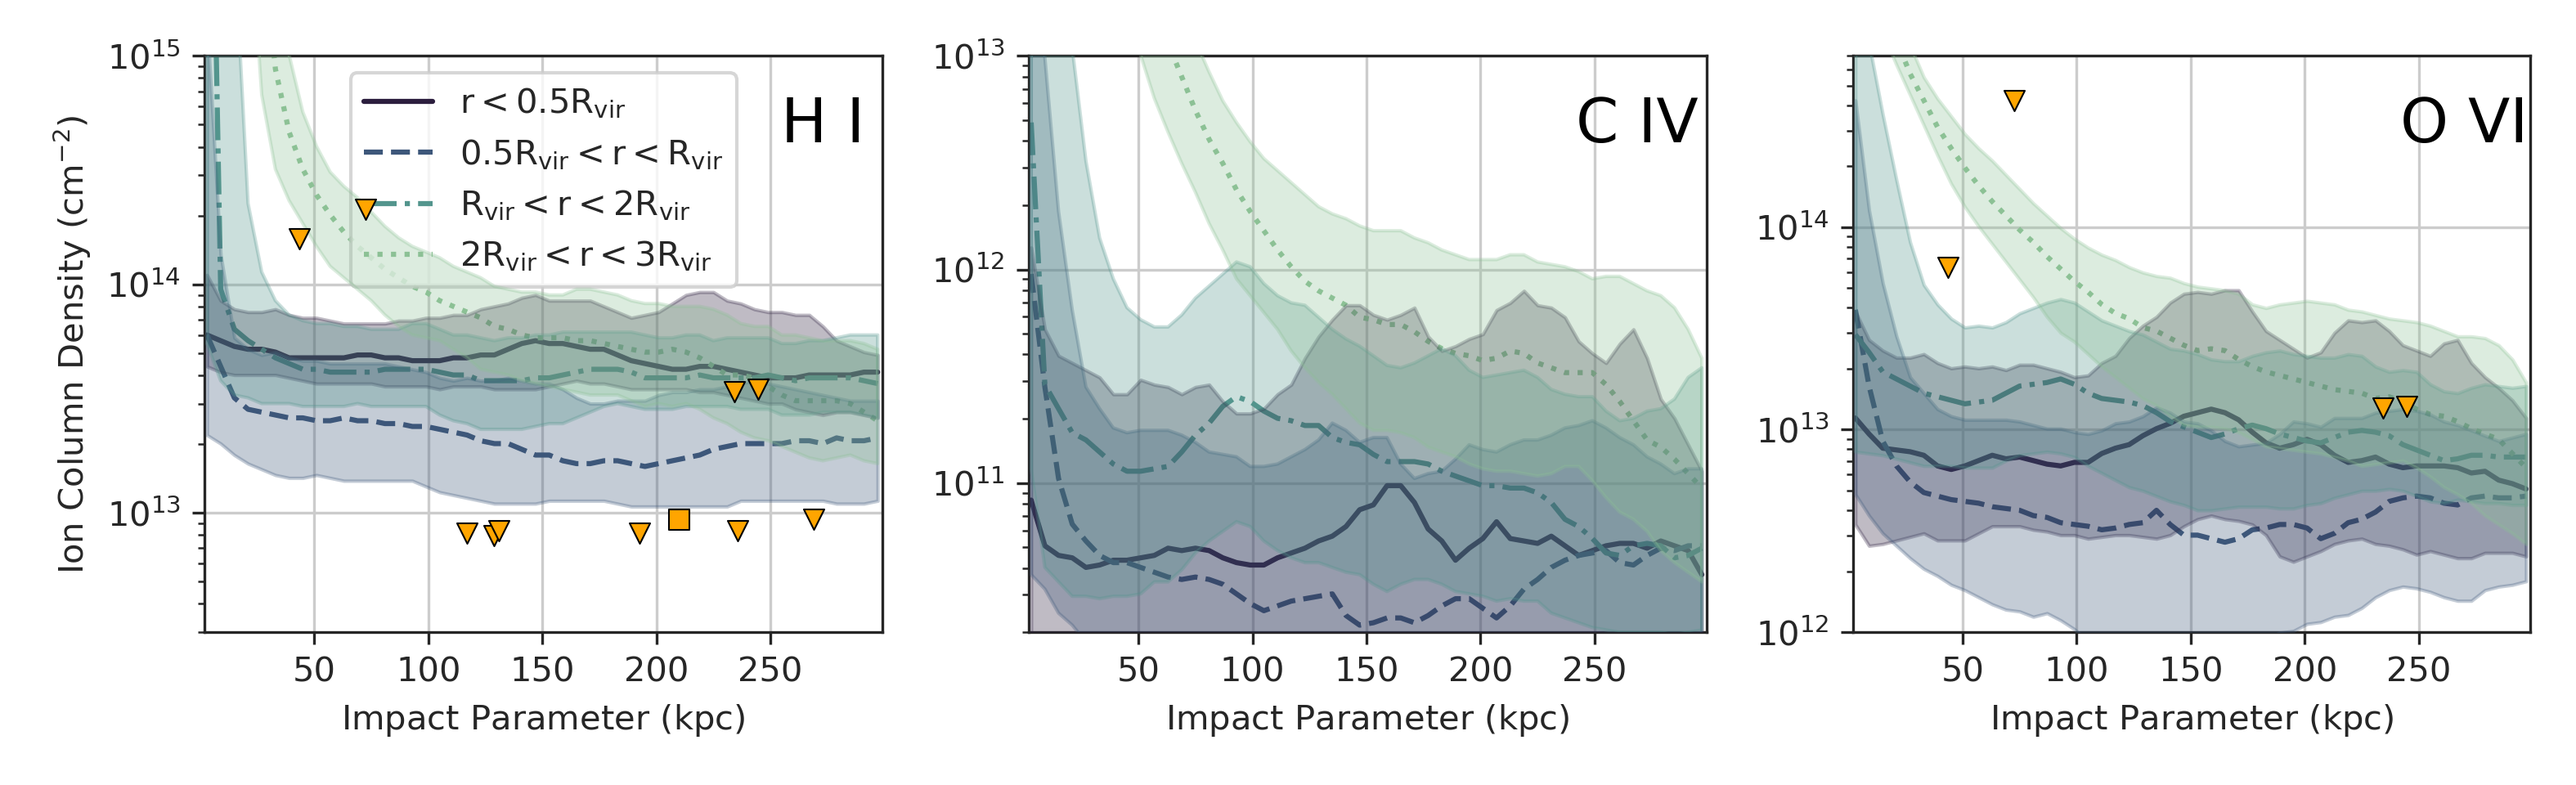
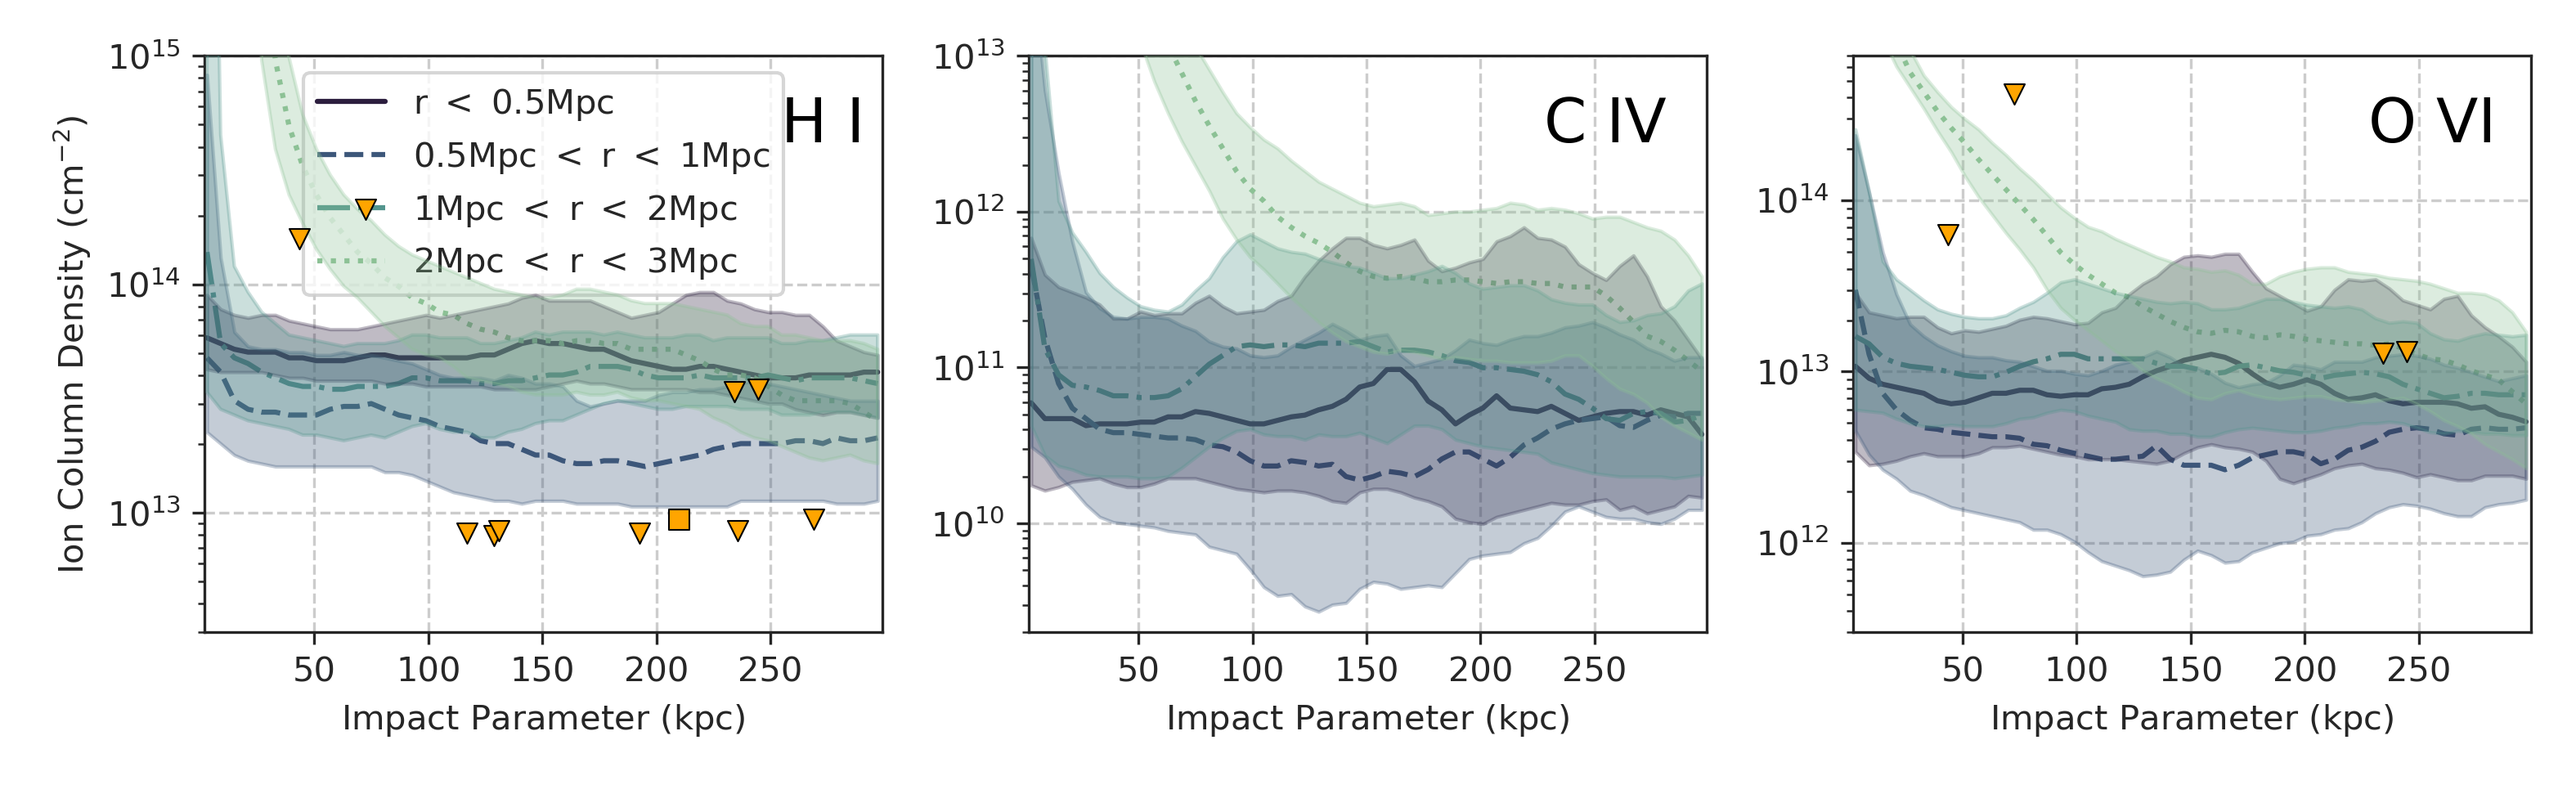
updating column plot for 3035

diff --git a/plot_multipanel_halo_ion.py b/plot_multipanel_halo_ion.py
@@ -144,8 +144,8 @@ def multipanel_ion_plot(sim, output, ion_list, plot_type, bin_type, do_colormesh
         y_factor = 0.85
         if plot_type == 'cfrac' and ion == 'HI':
             y_factor = 0.15
-#        elif plot_type == 'column' and ion == 'HI':
- #           x_factor = 
+        elif plot_type == 'column' and (ion == 'CIV' or ion == 'OVI'):
+            x_factor = 0.8
         ipd.annotate_ion_name(ax, ion_name, x_factor = x_factor, y_factor = y_factor)
         fig.tight_layout()
         plt.savefig('%s_%06d_multipanel_%s_halo_%s.png'%(sim, output, plot_type, bin_type), dpi = 300)
@@ -177,7 +177,8 @@ multipanel_ion_plot(sim, output, ion_list, plot_type, 'dist', combine = False)
 
 
 plot_type = 'column'
-multipanel_ion_plot(sim, output, ion_list, plot_type, 'dist', combine = False, do_colormesh = True)
+multipanel_ion_plot(sim, output, ion_list, plot_type, 'dist', combine = False)
+#multipanel_ion_plot(sim, output, ion_list, plot_type, 'dist', combine = False, do_colormesh = True)
 
 output = 3360
 multipanel_ion_plot(sim, output, ion_list, plot_type, 'dist', combine = True, combined_output_list = [3697])

diff --git a/find_halos_with_stars.py b/find_halos_with_stars.py
@@ -37,6 +37,7 @@ def find_halos_with_stars(timestep, output):
     Rvir = []
     R200 = []
     center = []
+    Contam = []
 
     cluster_center = halos[0]['shrink_center']
 
@@ -50,6 +51,7 @@ def find_halos_with_stars(timestep, output):
         if mstar > 1e8:
             print(i, mstar/1e12)
             halo_id.append(i)
+            Contam.append(halo['contamination_fraction'])
             Rvir.append(halo['max_radius'])
             r200 = halo.calculate('radius(200)')
             R200.append(r200)
@@ -64,7 +66,7 @@ def find_halos_with_stars(timestep, output):
 
     h5file = h5.File('/nobackup/ibutsky/data/romulusC_halo_data_%i'%(output), 'w')
     
-
+    h5file.create_dataset('contamination', data = np.array(Contam))
     h5file.create_dataset('r200', data = np.array(R200))
     h5file.create_dataset('halo_id', data = np.array(halo_id))
     h5file.create_dataset('rvir', data = np.array(Rvir))

diff --git a/generate_halo_combined_column_data.py b/generate_halo_combined_column_data.py
@@ -18,10 +18,12 @@ def combine_halo_column_densities(sim, output, ion_list, rmax = 300, mask = None
     halo_list = halo_props['halo_id'].value
     mstar_list = halo_props['mstar'].value
     dist_list = halo_props['dist_to_cluster'].value
+    contamination = halo_props['contamination'].value
 #    cluster_rvir = halo_props['rvir'].value[0]
     cluster_rvir = rom.get_romulusC_r200(output)
+
     print(cluster_rvir)
-    halo_mask = (mstar_list >= 1e9) & (mstar_list < 1e12) 
+    halo_mask = (contamination < 0.05) & (mstar_list >= 1e9) & (mstar_list < 1e12) 
     if mask == 'high_mass':
         halo_mask = (mstar_list >= 1e10) & (mstar_list <= 1e12)
     if sim == 'romulusC':
